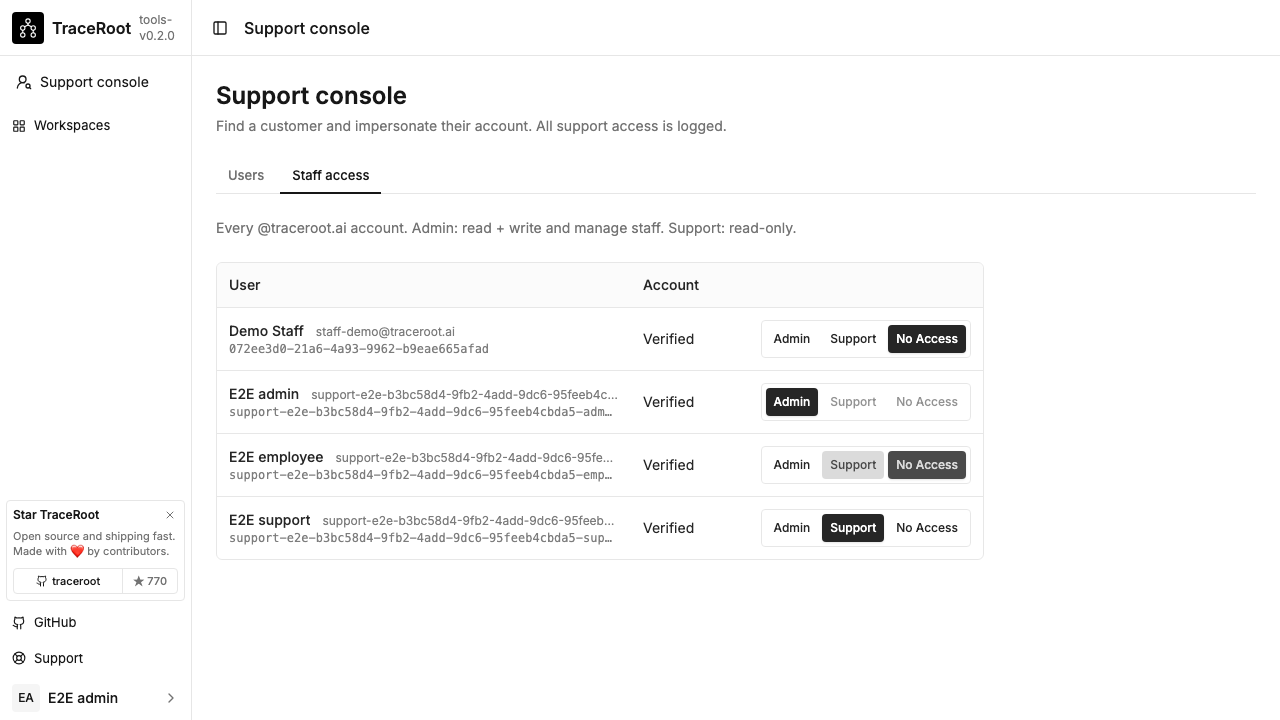
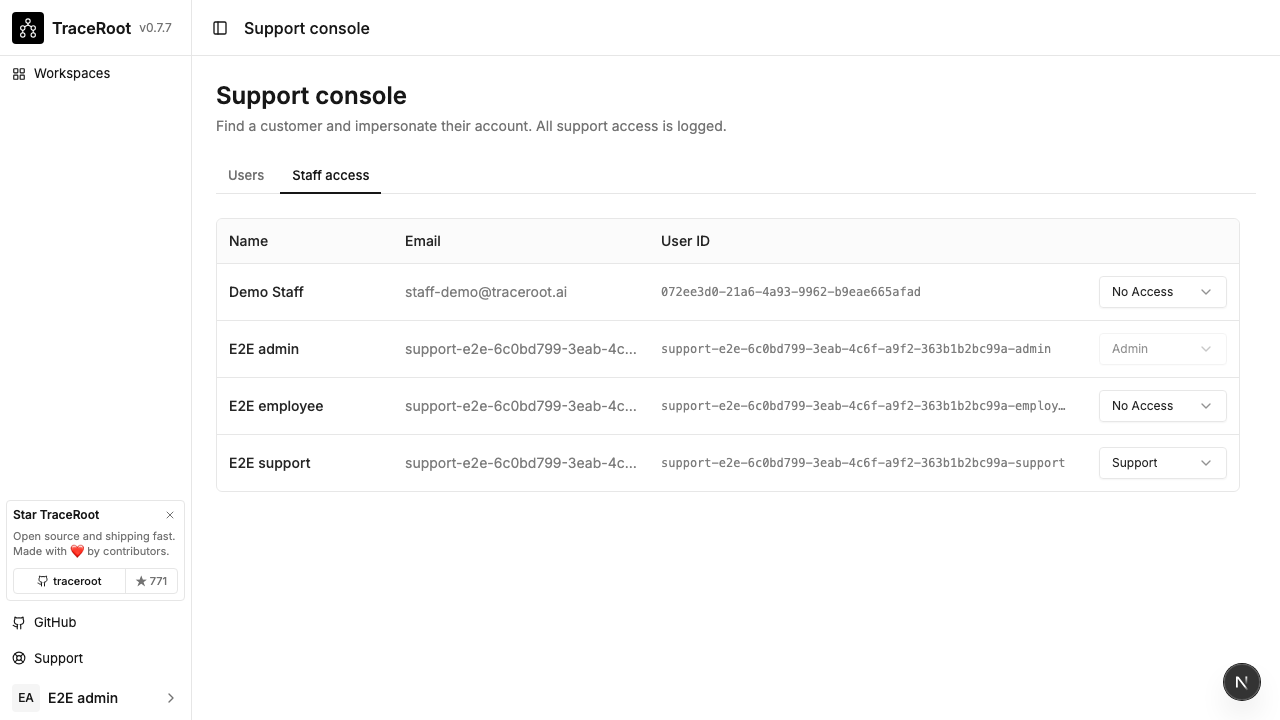
fix(support): remove global fetch interception and refresh UI docs

diff --git a/frontend/ui/e2e/impersonation.spec.ts b/frontend/ui/e2e/impersonation.spec.ts
@@ -1,6 +1,13 @@
 import { test, expect, type BrowserContext, type APIRequestContext } from "@playwright/test";
 import { PrismaClient } from "@prisma/client";
 import { createHmac, randomUUID } from "node:crypto";
+import { resolve } from "node:path";
+
+// Opt in when updating the committed review images from the tested UI.
+const screenshotPath = (name: string, fallback: string) =>
+  process.env.UPDATE_SUPPORT_SCREENSHOTS === "1"
+    ? resolve(process.cwd(), "../../docs/images/impersonation", name)
+    : fallback;
 
 // Intentionally localhost-only: fixtures must never touch a remote tenant.
 const database = new URL(process.env.DATABASE_URL!);
@@ -160,7 +167,10 @@ test("support UI: browse, search, reason, banner, exit and audit", async ({ page
   await expect(customerRow.getByRole("cell").nth(1)).toHaveText(emails.customer);
   await expect(customerRow.getByRole("cell").nth(2)).toHaveText(ids.customer);
   await expect(customerRow.getByRole("cell").nth(0).getByRole("button")).toHaveCount(0);
-  await page.screenshot({ path: "/tmp/impersonation-user-columns.png", fullPage: true });
+  await page.screenshot({
+    path: screenshotPath("users.png", "/tmp/impersonation-user-columns.png"),
+    fullPage: true,
+  });
   await expect(page.getByRole("columnheader", { name: "User ID", exact: true })).toBeVisible();
   await expect(page.getByRole("columnheader", { name: "Workspaces", exact: true })).toHaveCount(0);
   await expect(page.getByText("Workspace admin", { exact: true })).toHaveCount(0);
@@ -169,7 +179,10 @@ test("support UI: browse, search, reason, banner, exit and audit", async ({ page
   await expect(page.getByRole("dialog")).toHaveAccessibleName(`Impersonate E2E customer`);
   await expect(page.getByRole("dialog")).toHaveAccessibleDescription(emails.customer);
   await expect(page.getByRole("dialog").getByText(/Read-only:|Read \+ write:/)).toHaveCount(0);
-  await page.screenshot({ path: "/tmp/impersonation-simple-dialog.png", fullPage: true });
+  await page.screenshot({
+    path: screenshotPath("start-session.png", "/tmp/impersonation-simple-dialog.png"),
+    fullPage: true,
+  });
   await expect(page.getByText("Maximum 2 hours", { exact: false })).toHaveCount(0);
   await expect(page.getByRole("button", { name: "Start session" })).toBeEnabled();
   await page
@@ -178,6 +191,12 @@ test("support UI: browse, search, reason, banner, exit and audit", async ({ page
   await page.getByRole("button", { name: "Start session" }).click();
   await page.waitForURL(base + "/");
   await expect(page.getByRole("button", { name: "Stop", exact: true })).toBeVisible();
+  await page
+    .getByRole("status")
+    .filter({ has: page.getByRole("button", { name: "Stop", exact: true }) })
+    .screenshot({
+      path: screenshotPath("banner.png", "/tmp/impersonation-sidebar-strip.png"),
+    });
   await expect(page.getByText("Read-only", { exact: true })).toHaveCount(0);
   await expect(page.getByText("Reason:", { exact: false })).toHaveCount(0);
   await expect(
@@ -442,7 +461,10 @@ test("admin UI grants access with the staff role selector", async ({ page, conte
   await expect(employeeAccess).toHaveText("Support");
   await setRole("No Access");
   await expect(employeeAccess).toHaveText("No Access");
-  await page.screenshot({ path: "/tmp/impersonation-staff-access-select.png", fullPage: true });
+  await page.screenshot({
+    path: screenshotPath("staff-access.png", "/tmp/impersonation-staff-access-select.png"),
+    fullPage: true,
+  });
   await expect(page.getByText(emails.employee, { exact: true })).toBeVisible();
 });
 

diff --git a/frontend/ui/src/features/support/impersonation-banner.tsx b/frontend/ui/src/features/support/impersonation-banner.tsx
@@ -3,7 +3,6 @@ import { useEffect, useState } from "react";
 import { usePathname } from "next/navigation";
 import { UserRoundSearch } from "lucide-react";
 import { authClient } from "@/lib/auth-client";
-import { DENIED_HEADER } from "@/lib/support/policy";
 import { cn } from "@/lib/utils";
 import { SUPPORT_ACTIVE_KEY, clearSupportMarkers, exitImpersonation } from "./exit";
 
@@ -16,29 +15,6 @@ type Context = {
 };
 
 const CONTEXT_REFRESH_MS = 60_000;
-const DENIAL_NOTICE_MS = 6_000;
-
-// Every write the policy refuses is reported here, whichever fetch wrapper the
-// feature used. Wrapping `window.fetch` only while a support session is active
-// is what lets one place cover all of them; feature code otherwise has no
-// consistent error surface (many mutations have no onError at all).
-function watchDeniedRequests(onDenied: (message: string) => void) {
-  const original = window.fetch;
-  window.fetch = async (...args) => {
-    const response = await original(...args);
-    if (response.status === 403 && response.headers.get(DENIED_HEADER)) {
-      response
-        .clone()
-        .json()
-        .then((body) => onDenied(body?.error ?? "Not allowed while impersonating"))
-        .catch(() => onDenied("Not allowed while impersonating"));
-    }
-    return response;
-  };
-  return () => {
-    window.fetch = original;
-  };
-}
 
 export function ImpersonationBanner({ collapsed = false }: { collapsed?: boolean }) {
   const { data, isPending } = authClient.useSession();
@@ -47,7 +23,6 @@ export function ImpersonationBanner({ collapsed = false }: { collapsed?: boolean
   const [active, setActive] = useState(false);
   const [restored, setRestored] = useState(false);
   const [error, setError] = useState("");
-  const [denied, setDenied] = useState("");
   const [busy, setBusy] = useState(false);
   const [now, setNow] = useState(0);
   const impersonatedBy = data?.session?.impersonatedBy;
@@ -89,15 +64,6 @@ export function ImpersonationBanner({ collapsed = false }: { collapsed?: boolean
       window.removeEventListener("focus", update);
     };
   }, [impersonatedBy, pathname, isPending, data?.session?.id]);
-  useEffect(() => {
-    if (!active || restored) return;
-    return watchDeniedRequests(setDenied);
-  }, [active, restored]);
-  useEffect(() => {
-    if (!denied) return;
-    const timer = setTimeout(() => setDenied(""), DENIAL_NOTICE_MS);
-    return () => clearTimeout(timer);
-  }, [denied]);
   // The server already unwound this session (see /api/auth get-session): the
   // cookie now holds the employee login, so there is nothing left to exit.
   useEffect(() => {
@@ -119,7 +85,7 @@ export function ImpersonationBanner({ collapsed = false }: { collapsed?: boolean
     (!context.impersonating ||
       !context.valid ||
       (context.expiresAt && new Date(context.expiresAt).getTime() <= now));
-  const notice = error || denied;
+  const notice = error;
   const target = context?.targetEmail ?? data?.user.email ?? "customer";
   const ended = restored || !!expired;
   const label = ended ? "Support session ended" : notice || target;

diff --git a/frontend/ui/src/features/support/impersonation-banner.test.tsx b/frontend/ui/src/features/support/impersonation-banner.test.tsx
@@ -84,6 +84,21 @@ it("keeps context details out of the banner", async () => {
   expect(screen.queryByTitle("Private ticket note")).toBeNull();
   expect(screen.queryByText(/Customer Workspace|Workspace:/)).toBeNull();
 });
+it("leaves fetch instrumentation installed before and after mount untouched", async () => {
+  const original = vi.fn(async () => Response.json({ impersonating: true, valid: true }));
+  vi.stubGlobal("fetch", original);
+  state.value = {
+    data: { session: { id: "customer", impersonatedBy: "staff" } },
+    isPending: false,
+  };
+  const view = render(<ImpersonationBanner />);
+  await waitFor(() => expect(original).toHaveBeenCalledOnce());
+  expect(window.fetch).toBe(original);
+  const instrumentation = vi.fn(original);
+  window.fetch = instrumentation;
+  view.unmount();
+  expect(window.fetch).toBe(instrumentation);
+});
 it("does not claim restoration when no employee session exists", async () => {
   vi.stubGlobal(
     "fetch",

diff --git a/docs/impersonation-management.md b/docs/impersonation-management.md
@@ -5,24 +5,33 @@
 ## Flow
 
 - Entry: Support console is in the bottom-left account menu, visible only to admin/support outside impersonation. It is not a main sidebar navigation item. Account actions use left-aligned icons and labels.
-- Users: 25 per page, partial email / exact user ID filter. The identity column has two lines: name plus smaller, muted email, then the user ID as plain text without a copy button. Workspaces displays only a count, with no expansion or role details. Staff and banned accounts cannot be impersonated; the disabled button says why. Rows stay on screen while a new search loads.
+- Users: 25 per page, partial email / exact user ID filter. Separate Name, Email and User ID columns, followed by Impersonate. No workspace column, expansion or copy button. Staff and banned accounts cannot be impersonated; the disabled button says why. Rows stay on screen while a new search loads.
 - Impersonate: a compact dialog with the target in the title, an optional Reason textarea, and Cancel / Start session buttons. No visible email, mode explanation or empty-workspace warning. Optional reason accepts up to 500 characters, trimmed; omitted/blank reasons are recorded as null. Deep links use `/admin/impersonate?userId=…`. Switching ends the current session first.
-- The amber banner is the single persistent indicator: target, mode, current workspace and the exit control. Reason is retained in the audit record but is not displayed in the banner. Any write the policy refuses is announced in the banner (the guard tags those 403s with `x-impersonation-denied`; the banner wraps `window.fetch` only while a session is active so every feature's requests are covered). Exit restores the employee session and original filter/page. There is no impersonation-specific duration cap: ordinary login-session expiry/refresh applies (currently seven days of inactivity). Current employee/target eligibility is checked on every request. If the original employee session has expired, exit requires signing in again.
-- A session that ends server-side (staff revoked, customer banned) unwinds itself: the next `get-session` runs the stop flow and answers with the restored employee session, `/admin` shows an exit page instead of a 404, and the banner reports that the employee is back on their own account. Staff are never left holding a dead customer cookie on the sign-in page.
-- Staff access: admin-only in both UI and API. Shows all existing accounts whose email ends in `@traceroot.ai` (case-insensitive), including accounts without access; no filter or pagination. Each row has an Account column (Verified / Unverified / Banned) and inline Admin / Support / No Access choices with confirmation and the current choice highlighted. Grants require a verified, non-banned account; no self-role changes. Email matching does not automatically grant access. The revoke API also permits revoking a previously privileged account whose email has changed, although that account is no longer listed. Revocation blocks subsequent reads; admin → support blocks subsequent writes. Already-dispatched requests are not canceled.
+- A compact amber strip at the top of the sidebar shows the truncated customer email and Stop. The collapsed sidebar retains an actionable exit icon; the account menu also provides Exit impersonation. No mode, workspace or reason is displayed. The indicator does not intercept browser requests: denied operations return a server-side 403 with an error message and `x-impersonation-denied`, and individual callers handle their errors. There is no universal denial notification. Exit restores the employee session and original filter/page. There is no impersonation-specific duration cap: ordinary login-session expiry/refresh applies (currently seven days of inactivity). Current employee/target eligibility is checked on every request. If the original employee session has expired, exit requires signing in again.
+- A session that ends server-side (staff revoked, customer banned) unwinds itself: the next `get-session` runs the stop flow and restores the employee session when possible. `/admin` provides a recovery page, and the sidebar indicator shows Support session ended with a Back action. A missing employee session falls back to sign-in.
+- Staff access: admin-only in both UI and API. Shows all existing accounts whose email ends in `@traceroot.ai` (case-insensitive), including accounts without access; no filter or pagination. Separate Name, Email and User ID columns and a compact role select (Admin / Support / No Access), with confirmation before a change. There is no Account column. Grants require a verified, non-banned account; no self-role changes. Email matching does not automatically grant access. The revoke API also permits revoking a previously privileged account whose email has changed, although that account is no longer listed. Revocation blocks subsequent reads; admin → support blocks subsequent writes. Already-dispatched requests are not canceled.
 - No Access logs tab, and no log or per-user workspace listing API: `/api/support` serves only `users`, `staff` and `context`. Durable audit collection remains; no session tokens or request bodies are recorded.
 
 ## Enforcement and audit
 
 The custom better-auth plugin creates the customer session and its start audit in one transaction, stores a signed restoration cookie (`support_original`, holding the employee session token plus the impersonation session ID — which is why exit must expire it as well as the customer cookie), and deletes the customer session on exit. Calling stop on a plain login is a no-op that keeps the login. Existing `/api/auth/admin/*` endpoints are disabled to prevent unaudited role changes or starts. Employee accounts are not granted additional customer membership permissions.
 
-All cookie API handlers use `withImpersonationPolicy`; a source-coverage test fails when an unwrapped route is added. Explicit credential/integration blocks cover both staff tiers, including CLI JWT exchange, device approvals, auth/account changes, GitHub token/OAuth, Slack installation, and API keys. JWT auto-issuance in `get-session` is disabled. Dashboard reads do not lazily create resources while impersonating.
+Application cookie API handlers use `withImpersonationPolicy`; a source-coverage test fails when an unwrapped route is added. Auth, internal validation and support endpoints have separate guards. The wrapper resolves the session once and supplies it and the impersonation context through request-local storage; `requireAuth` and billing handlers reuse that result, including a null session. Other callers resolve their own session. Nothing is cached across requests, and SSE live revalidation explicitly performs fresh lookups. Explicit credential/integration blocks cover both staff tiers, including CLI JWT exchange, device approvals, auth/account changes, GitHub token/OAuth, Slack installation, and API keys. JWT auto-issuance in `get-session` is disabled. Dashboard reads do not lazily create resources while impersonating.
 
 Python trace reads now require a signed browser session instead of trusting `x-user-id`; the UI resolves identity and live impersonation eligibility before checking project membership. Trusted internal-secret calls and public API/CLI authentication remain separate. Cross-origin browser calls send cookies (`credentials: include`); UI/API hosts must share a usable session-cookie scope. Deploy UI and REST changes together.
 
 Role changes and session starts/exits fail closed if their audit transaction fails. Business writes first persist an audit intent, then preserve the real handler response and finalize the outcome. If finalization fails, the durable intent remains `pending`; exceptions are `unknown`. These states require reconciliation and are **not proof of rollback or permission to retry**. Existing route-specific idempotency semantics are unchanged. The wrapper does not claim atomicity between arbitrary business/external effects and its final outcome row.
 
 Audit rows have actor/customer email snapshots and no foreign-key cascades. Keep `transport=admin` out of any future pruning. Expiry is deterministic even if no exit request arrives; closing a browser is not an observed exit. Session-level access is deliberately not workspace-scoped and does not prove which traces were read.
+
+## Screenshots
+
+![Users](images/impersonation/users.png)
+![Staff access](images/impersonation/staff-access.png)
+![Start session](images/impersonation/start-session.png)
+![Sidebar indicator](images/impersonation/banner.png)
+
+Regenerate from the current local UI with `UPDATE_SUPPORT_SCREENSHOTS=1 pnpm test:e2e -- e2e/impersonation.spec.ts` in `frontend/ui`.
 
 ## Local verification
 
